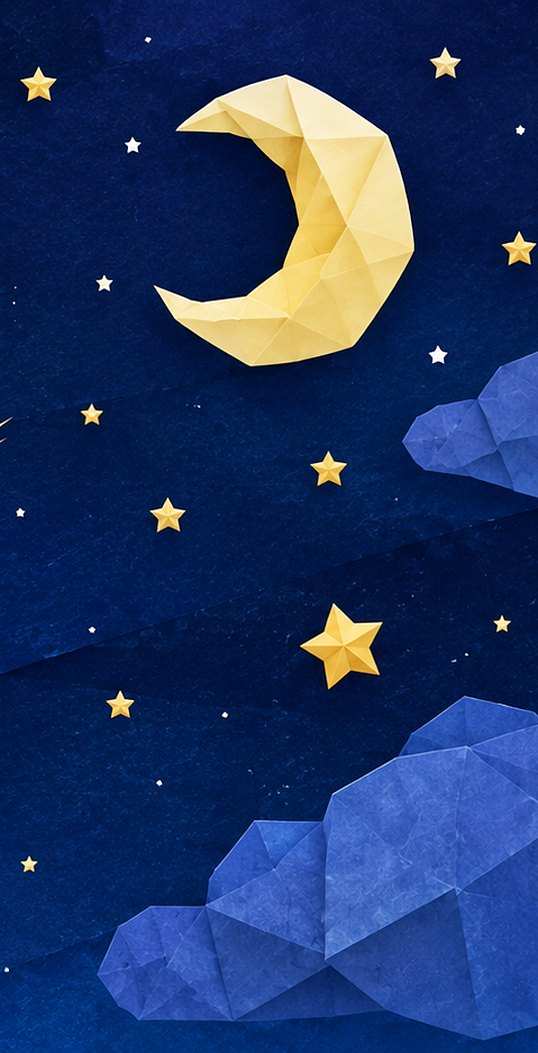
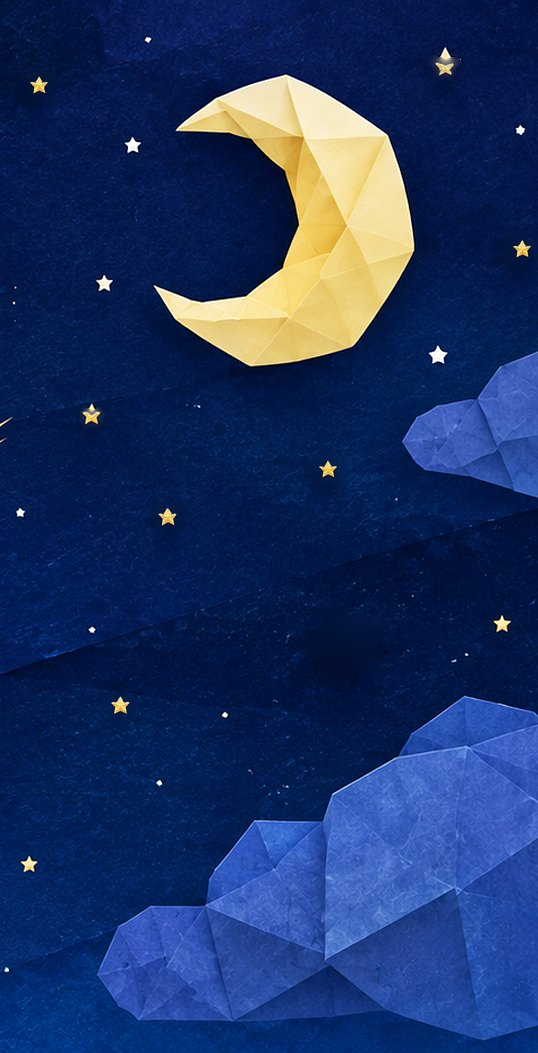
空の絵の星を小さくし、月が二つ重なる時間を短くする
(1) 背景の星がアイテムの星 (40pt) と紛らわしかった。元の絵から、金色の星の塊を検出して縮め (538 幅で最大 18 画素 ≒ 14pt)、尾のある流れ星は消した (流れ星は canvas)。消したあとはまわりの色をなだらかに広げて埋める。月はそのまま。最初に縮めたとき、流れ星の尾 (うすい黄) が残って汚れたので、尾ごと消す処理を足した。
(2) 夜 (満月) → 星空 (三日月) を 10 点かけて混ぜると、月が二つ重なって見え続けた。星空は 35 点、オーロラは 45 点でぱっと切り替え、CSS の 0.6 秒の重ね合わせだけにした。夜は夕やけから 20→30 点でなめらかなまま (月が無いので)。
見張り: 背景の星の大きさ (月とそのまわりを除く。新 14/14/13、旧 82/81/29 で落ちることを確認)、点数ごとの切り替わり、重ね合わせの時間。

Claude-Session: https://claude.ai/code/session_01VNifuaMGz9kWVnVmfma8o2

diff --git a/browser-test.js b/browser-test.js
@@ -843,8 +843,9 @@ async function run() {
       await np.goto(URL);
       await np.waitForFunction(() => window.__app);
       await np.locator('#btnAdventure').tap();
+      // 切り替わりは CSS で 0.6 秒かけて動くので、目標の値 (style.opacity) を読む
       const ops = (sc) => np.evaluate((sc) => { const g = window.__app.game(); g.phase = 'play'; g.score = sc; g.pipes.length = 0; g.items.length = 0; window.__app.render();
-        return ['skyNight', 'skyStarry', 'skyAurora'].map((id) => +getComputedStyle(document.getElementById(id)).opacity); }, sc);
+        return ['skyNight', 'skyStarry', 'skyAurora'].map((id) => +document.getElementById(id).style.opacity); }, sc);
       const arts = await np.evaluate(async () => {
         const out = {};
         for (const id of ['skyNight', 'skyStarry', 'skyAurora']) {
@@ -858,20 +859,37 @@ async function run() {
             if (d[i + 1] > 140 && d[i + 1] > d[i] + 40 && d[i + 1] > d[i + 2] - 20) green++;   // オーロラの緑
             lum += (d[i] + d[i + 1] + d[i + 2]) / 3;
           }
-          out[id] = { w: c.width, h: c.height, gold, green, lum: lum / (d.length / 4) };
+          // 金色の塊の大きさ: 月 (いちばん大きい塊と、そのまわり。陰の所は別の塊に割れる) 以外の星が、アイテムの星 (40pt) と見分けがつくくらい小さいか
+          const W = c.width, H = c.height, seen = new Uint8Array(W * H), blobs = [];
+          const isGold = (i) => d[i * 4] > 170 && d[i * 4 + 1] > 120 && d[i * 4 + 2] < 140 && d[i * 4] > d[i * 4 + 2] + 60;
+          for (let p0 = 0; p0 < W * H; p0++) {
+            if (seen[p0] || !isGold(p0)) continue;
+            let x0 = W, x1 = 0, y0 = H, y1 = 0, area = 0; const st = [p0]; seen[p0] = 1;
+            while (st.length) { const p = st.pop(), x = p % W, y = (p / W) | 0; area++; x0 = Math.min(x0, x); x1 = Math.max(x1, x); y0 = Math.min(y0, y); y1 = Math.max(y1, y);
+              for (const q of [p - 1, p + 1, p - W, p + W]) if (q >= 0 && q < W * H && !seen[q] && isGold(q)) { seen[q] = 1; st.push(q); } }
+            blobs.push({ x0, x1, y0, y1, area, size: Math.max(x1 - x0, y1 - y0) + 1 });
+          }
+          const moon = blobs.reduce((m, b) => (b.area > m.area ? b : m), { area: 0, x0: 0, x1: -1, y0: 0, y1: -1 });
+          const nearMoon = (b) => b.x1 >= moon.x0 - 14 && b.x0 <= moon.x1 + 14 && b.y1 >= moon.y0 - 14 && b.y0 <= moon.y1 + 14;
+          const big = Math.max(0, ...blobs.filter((b) => b !== moon && !nearMoon(b)).map((b) => b.size));
+          out[id] = { w: c.width, h: c.height, gold, green, big, lum: lum / (d.length / 4) };
         }
         return out;
       });
       for (const id of ['skyNight', 'skyStarry', 'skyAurora']) ok(arts[id].w === 538 && arts[id].h === 1053, `${id} は 538x1053 (${arts[id].w}x${arts[id].h})`);
       ok(arts.skyNight.gold > 300 && arts.skyStarry.gold > 300, `夜と星空の絵に金の星が写っている (${arts.skyNight.gold} / ${arts.skyStarry.gold} 画素)`);
       ok(arts.skyAurora.green > 4000 && arts.skyNight.green < 100 && arts.skyStarry.green < 100, `オーロラの絵だけ緑が多い (${arts.skyAurora.green} / ${arts.skyNight.green} / ${arts.skyStarry.green} 画素)`);
+      ok(Object.values(arts).every((a) => a.big <= 24), `背景の星は小さい (最大 ${Object.values(arts).map((a) => a.big).join(' / ')} 画素。538 幅で 24 画素 = 19pt 以下。アイテムの星は 40pt)`);
       ok(Object.values(arts).every((a) => a.lum < 110), `3 枚とも夜の暗さ (明るさ ${Object.values(arts).map((a) => a.lum.toFixed(0)).join(' / ')})`);
-      const o = {}; for (const sc of [0, 20, 25, 30, 35, 40, 45, 50, 70]) o[sc] = await ops(sc);
+      const o = {}; for (const sc of [0, 20, 25, 30, 34, 35, 44, 45, 70]) o[sc] = await ops(sc);
       ok(o[0].every((v) => v === 0) && o[20].every((v) => v === 0), '20 点までは絵を出さない');
-      ok(o[30][0] === 1 && o[30][1] === 0 && o[30][2] === 0, `30 点は夜の絵だけ (${o[30]})`);
-      ok(o[40][0] === 1 && o[40][1] === 1 && o[40][2] === 0, `40 点は星空の絵まで (${o[40]})`);
-      ok(o[50].every((v) => v === 1) && o[70].every((v) => v === 1), `50 点からオーロラの絵まで全部 (${o[50]})`);
-      ok(o[25][0] > 0.3 && o[25][0] < 0.7 && o[35][1] > 0.3 && o[35][1] < 0.7 && o[45][2] > 0.3 && o[45][2] < 0.7, `前後の 5 点は途中 (${o[25][0]} / ${o[35][1]} / ${o[45][2]})`);
+      ok(o[30][0] === 1 && o[30][1] === 0 && o[30][2] === 0 && o[34][1] === 0, `30〜34 点は夜の絵だけ (${o[30]} / ${o[34]})`);
+      ok(o[35][0] === 1 && o[35][1] === 1 && o[35][2] === 0 && o[44][2] === 0, `35 点で星空の絵に替わる (${o[35]} / ${o[44]})`);
+      ok(o[45].every((v) => v === 1) && o[70].every((v) => v === 1), `45 点からオーロラの絵まで全部 (${o[45]})`);
+      ok(o[25][0] > 0.3 && o[25][0] < 0.7, `夜の絵は 25 点で途中 (${o[25][0]})`);
+      // 月が二つ重なって見える時間は短い: 重ね合わせは 0.6 秒以内
+      const tr = await np.evaluate(() => { const cs = getComputedStyle(document.getElementById('skyStarry')); return { dur: cs.transitionDuration, prop: cs.transitionProperty }; });
+      ok(tr.prop === 'opacity' && parseFloat(tr.dur) > 0 && parseFloat(tr.dur) <= 0.7, `星空・オーロラの絵は短い重ね合わせで替わる (${tr.prop} ${tr.dur})`);
       await nc.close();
 
       // 1 枚でも絵が読めなければ、元のグラデーション + 星と月 (canvas) のまま
@@ -882,7 +900,7 @@ async function run() {
       await bp.waitForFunction(() => window.__app);
       await bp.locator('#btnAdventure').tap();
       const ob = await bp.evaluate(() => { const g = window.__app.game(); g.phase = 'play'; g.score = 45; g.pipes.length = 0; g.items.length = 0; window.__app.render();
-        return ['skyNight', 'skyStarry', 'skyAurora'].map((id) => +getComputedStyle(document.getElementById(id)).opacity); });
+        return ['skyNight', 'skyStarry', 'skyAurora'].map((id) => +document.getElementById(id).style.opacity); });
       ok(ob.every((v) => v === 0), `絵が 1 枚でも読めないときは、どれも出さない (${ob})`);
       await bc.close();
     }

diff --git a/core.test.js b/core.test.js
@@ -186,18 +186,19 @@ test('柱の沈め具合: どのステージでも 0〜1。昼より夜のほう
   }
 });
 
-test('夜・星空・オーロラの絵の濃さ: 夜は 20→30 点、星空は 30→40 点、オーロラは 40→50 点で 0 → 1、重ねているあいだ下の絵は 1 のまま', () => {
+test('夜・星空・オーロラの絵: 夜は 20→30 点でなめらかに、星空は 35 点、オーロラは 45 点で切り替わる (月が二つ重なる時間を短くするため)', () => {
   assert.deepStrictEqual(Core.palette(0).skyArt, [0, 0, 0]);
   assert.deepStrictEqual(Core.palette(20).skyArt, [0, 0, 0]);
   assert.deepStrictEqual(Core.palette(30).skyArt, [1, 0, 0]);
-  assert.deepStrictEqual(Core.palette(40).skyArt, [1, 1, 0]);
-  assert.deepStrictEqual(Core.palette(50).skyArt, [1, 1, 1]);
+  assert.deepStrictEqual(Core.palette(34).skyArt, [1, 0, 0]);
+  assert.deepStrictEqual(Core.palette(35).skyArt, [1, 1, 0]);
+  assert.deepStrictEqual(Core.palette(44).skyArt, [1, 1, 0]);
+  assert.deepStrictEqual(Core.palette(45).skyArt, [1, 1, 1]);
   assert.deepStrictEqual(Core.palette(80).skyArt, [1, 1, 1]);
+  assert.ok(Math.abs(Core.palette(25).skyArt[0] - 0.5) < 1e-9);
   for (let sc = 0; sc < 60; sc++) {
     const a = Core.palette(sc).skyArt, b = Core.palette(sc + 1).skyArt;
     for (let i = 0; i < 3; i++) assert.ok(b[i] >= a[i], `${sc} 点で絵 ${i} が減らない`);
     assert.ok(a[0] >= a[1] && a[1] >= a[2], `${sc} 点: 下の絵ほど濃い (透けない)`);
   }
-  assert.strictEqual(Core.palette(35).skyArt[0], 1);
-  assert.ok(Math.abs(Core.palette(35).skyArt[1] - 0.5) < 1e-9);
 });

diff --git a/core.js b/core.js
@@ -87,10 +87,10 @@
       stars: lerp(a.stars, b.stars, t),
       moon: lerp(a.moon, b.moon, t),
       aurora: lerp(a.aurora, b.aurora, t),
-      // 夜・星空・オーロラの紙の絵 (assets/sky-night / starry / aurora.jpg) をどれだけ出すか。
-      // 下から重ねて、夜 (30 点) へ 20→30 点で入り、星空 (40 点) を 30→40、オーロラ (50 点) を 40→50 で上に重ねる
-      // (下の絵は 1 のまま残すので、重ねている間に下のグラデーションが透けない)
-      skyArt: [0, 1, 2].map(function (i) { return Math.max(0, Math.min(1, (score - (NIGHT_AT + (i - 1) * STAGE_LEN)) / STAGE_LEN)); })
+      // 夜・星空・オーロラの紙の絵 (assets/sky-night / starry / aurora.jpg) をどれだけ出すか。下から重ねる。
+      // 夜は夕やけのグラデーションから 20→30 点でなめらかに入る。星空 (35 点) とオーロラ (45 点) は、絵ごとに月などが違うので、
+      // 10 点かけて混ぜると「月が二つ重なって」見え続ける。半分の点で切り替え、CSS の短い (0.6 秒) 重ね合わせだけで済ませる
+      skyArt: [Math.max(0, Math.min(1, (score - (NIGHT_AT - STAGE_LEN)) / STAGE_LEN)), score >= NIGHT_AT + STAGE_LEN / 2 ? 1 : 0, score >= NIGHT_AT + 3 * STAGE_LEN / 2 ? 1 : 0]
     };
   }
 

diff --git a/styles.css b/styles.css
@@ -56,6 +56,7 @@ body {
   height: 842px;
   opacity: 0;
   pointer-events: none;
+  transition: opacity 0.6s;   /* 星空・オーロラは点数の境で切り替わる。月が二つ重なって見える時間を 0.6 秒にとどめる */
 }
 #skyPaper {
   position: absolute;

diff --git a/CLAUDE.md b/CLAUDE.md
@@ -27,8 +27,11 @@
   もらった絵のうち、青い折り紙・茶色の亀・白い帯 (ハート入り) は使っていない。
   **夜・星空・オーロラは紙の絵** (`assets/sky-night.jpg` = 満月と雲 / `sky-starry.jpg` = 三日月・星・雲 / `sky-aurora.jpg` = オーロラと氷山。
   もらった横長の絵から、空と同じ縦横比 430:842 (幅 479 の切り出し) で取り、538x1053 に。床は含めない)。
-  `#skyNight` / `#skyStarry` / `#skyAurora` (`.sky-art`) を `#sky` の上に**下から順に重ね**、濃さは `palette().skyArt` = `[夜, 星空, オーロラ]`
-  (夜は 20→30 点、星空は 30→40 点、オーロラは 40→50 点で 0 → 1。**下の絵は 1 のまま残す**ので、重ねている間にグラデーションが透けない)。
+  `#skyNight` / `#skyStarry` / `#skyAurora` (`.sky-art`) を `#sky` の上に**下から順に重ね**、濃さは `palette().skyArt` = `[夜, 星空, オーロラ]`。
+  夜は夕やけのグラデーションから 20→30 点でなめらかに入る。**星空は 35 点、オーロラは 45 点でぱっと切り替える** (CSS の 0.6 秒の重ね合わせだけ)。
+  絵ごとに月が違う (満月 → 三日月) ので、10 点かけて混ぜると**月が二つ重なって見える時間**が長くなる。下の絵は 1 のまま残すので、切り替え中もグラデーションが透けない。
+  **背景の星は小さくしてある** (538 幅で最大 18 画素 ≒ 14pt。アイテムの星 40pt と紛らわしいため)。元の絵の星を縮め、尾のある流れ星は消した (流れ星は canvas)。月はそのまま。
+  絵を作り直したら、星の大きさを測る見張り (24 画素以下) で確かめる。
   絵が濃い間は `#skyPaper` を薄め、canvas の星・月・オーロラは引っ込める (絵の中にあるので。`(1 - 夜の濃さ)^3`。流れ星は canvas のまま)。
   **3 枚のうち 1 枚でも読めなければ、どれも出さず**、元のグラデーション + canvas の星・月・オーロラのまま
   **ホーム画面のアイコンも折り紙の絵** (紙の青い空に雲と鳥。`apple-touch-icon.png` は 180x180・透明なし。`icon.svg` は同じ絵を埋め込んだもの)。絵が読めないときもそのまま動く
